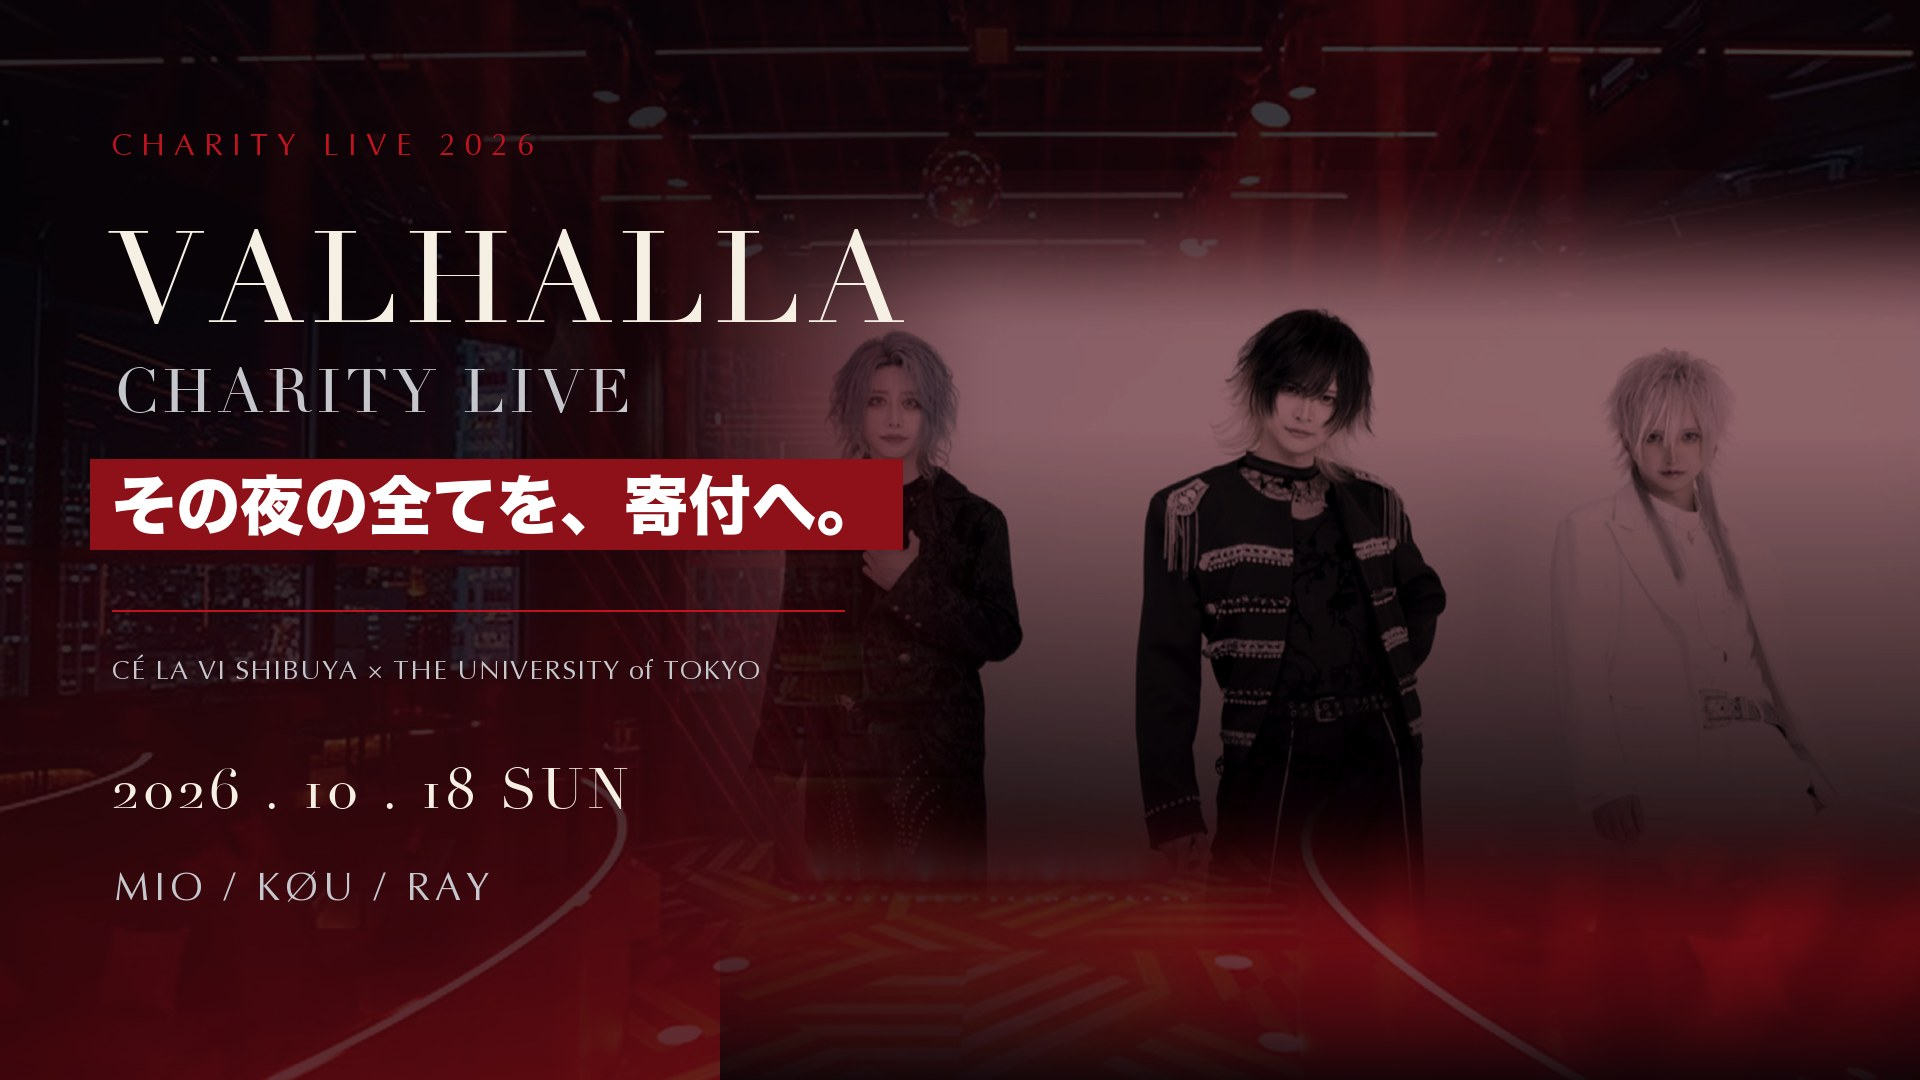
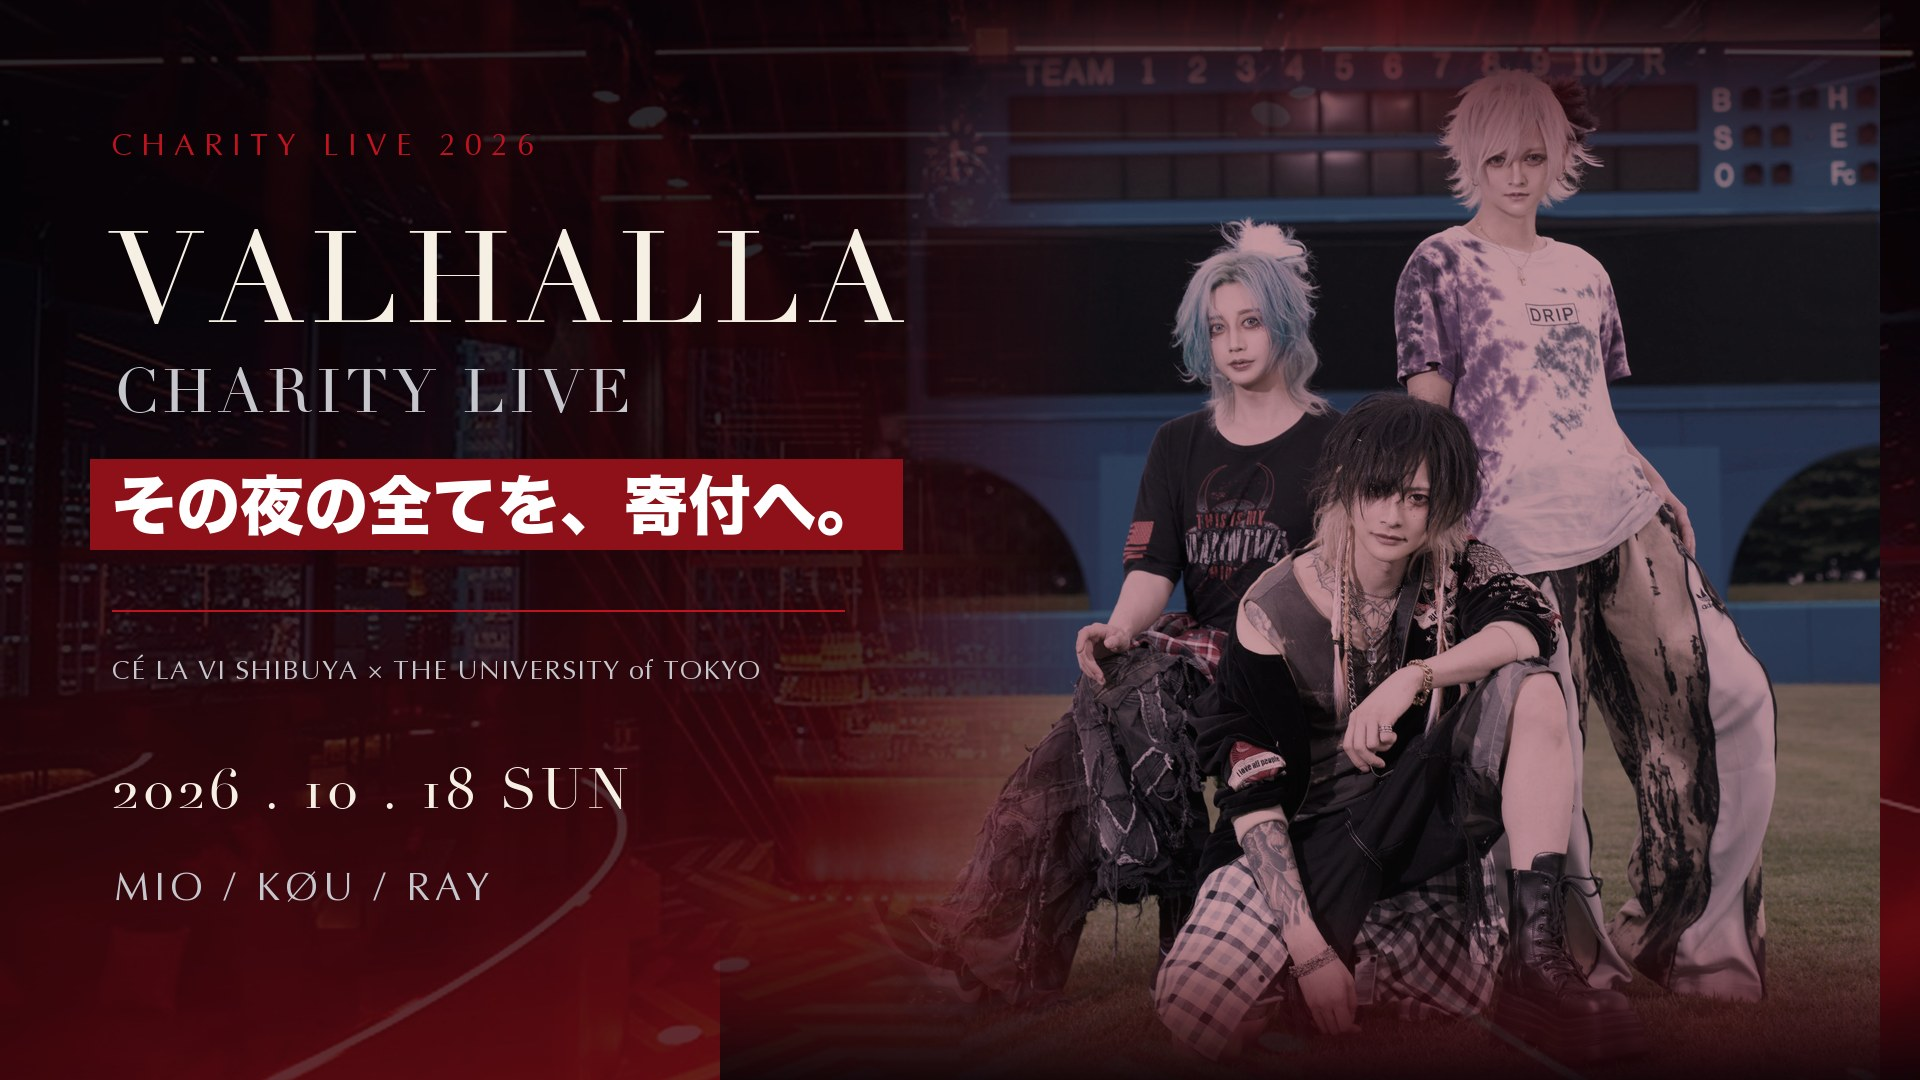
charity: swap main visual photo to the field group shot
kazuma指定の写真(= assets/charity/group_field.jpg)へ差し替え。
青が潰れないよう彩度を落としてから弱めのクリムゾン乗算をかける方式に変更。

diff --git a/assets/charity/create_flyer_wide.py b/assets/charity/create_flyer_wide.py
@@ -8,7 +8,7 @@ import os
 
 
 HERE = Path(__file__).resolve().parent
-SOURCE = HERE / "flyer.jpg"
+SOURCE = HERE / "group_field.jpg"
 VENUE = HERE / "venue" / "celavi_red_hero.jpg"
 OUTPUT = HERE / "flyer_wide.jpg"
 
@@ -131,25 +131,26 @@ def make_background() -> Image.Image:
 
 def add_people(base: Image.Image) -> None:
     src = Image.open(SOURCE).convert("RGB")
-    # Only the portrait area is used; all typography in the source is excluded.
-    portrait = src.crop((35, 100, 1065, 715))
-    target_w = 1320
-    target_h = round(portrait.height * target_w / portrait.width)
+    # Keep the full width so the left shoe and the right member both retain
+    # breathing room.  Most of the sky/scoreboard is removed while the crop
+    # still includes all three figures from hair to feet.
+    portrait = src.crop((0, 916, 2443, 3664))
+    target_w, target_h = 1040, 1170
     portrait = portrait.resize((target_w, target_h), Image.Resampling.LANCZOS)
     portrait = portrait.filter(ImageFilter.GaussianBlur(0.25))
-    portrait = ImageEnhance.Brightness(portrait).enhance(0.94)
+    portrait = ImageEnhance.Brightness(portrait).enhance(1.04)
 
-    # Apply one uniform multiply-style grade to the whole photograph.  Keeping
-    # the operation independent of luminance/chroma preserves the separation
-    # between the silver backdrop and RAY's brighter white suit instead of
-    # misclassifying the costume as background.  A small desaturated component
-    # keeps skin from becoming aggressively red.
-    neutral = ImageEnhance.Color(portrait).enhance(0.34)
+    # Apply one uniform multiply-style grade to the whole photograph.  The
+    # source's saturated blue and purple are first pulled toward neutral; a
+    # lighter crimson multiplier then preserves face/hair detail and keeps the
+    # blue background from collapsing into dirty black.
+    neutral = ImageEnhance.Color(portrait).enhance(0.38)
+    neutral = ImageEnhance.Contrast(neutral).enhance(0.94)
     crimson_multiply = ImageChops.multiply(
-        neutral, Image.new("RGB", portrait.size, (128, 76, 82))
+        neutral, Image.new("RGB", portrait.size, (184, 128, 136))
     )
-    portrait = Image.blend(crimson_multiply, neutral, 0.16)
-    portrait = ImageEnhance.Contrast(portrait).enhance(1.08)
+    portrait = Image.blend(crimson_multiply, neutral, 0.22)
+    portrait = ImageEnhance.Contrast(portrait).enhance(1.02)
 
     # Photograph enters softly from the left and dissolves into black at the bottom.
     mask = Image.new("L", portrait.size, 0)
@@ -173,7 +174,7 @@ def add_people(base: Image.Image) -> None:
     glow_mask = mask.filter(ImageFilter.GaussianBlur(34)).point(lambda v: round(v * 0.22))
     glow = Image.new("RGB", (W, H), CRIMSON)
     full_glow_mask = Image.new("L", (W, H), 0)
-    photo_pos = (650, 170)
+    photo_pos = (840, -20)
     full_glow_mask.paste(glow_mask, photo_pos)
     base.paste(glow, (0, 0), full_glow_mask)
 
